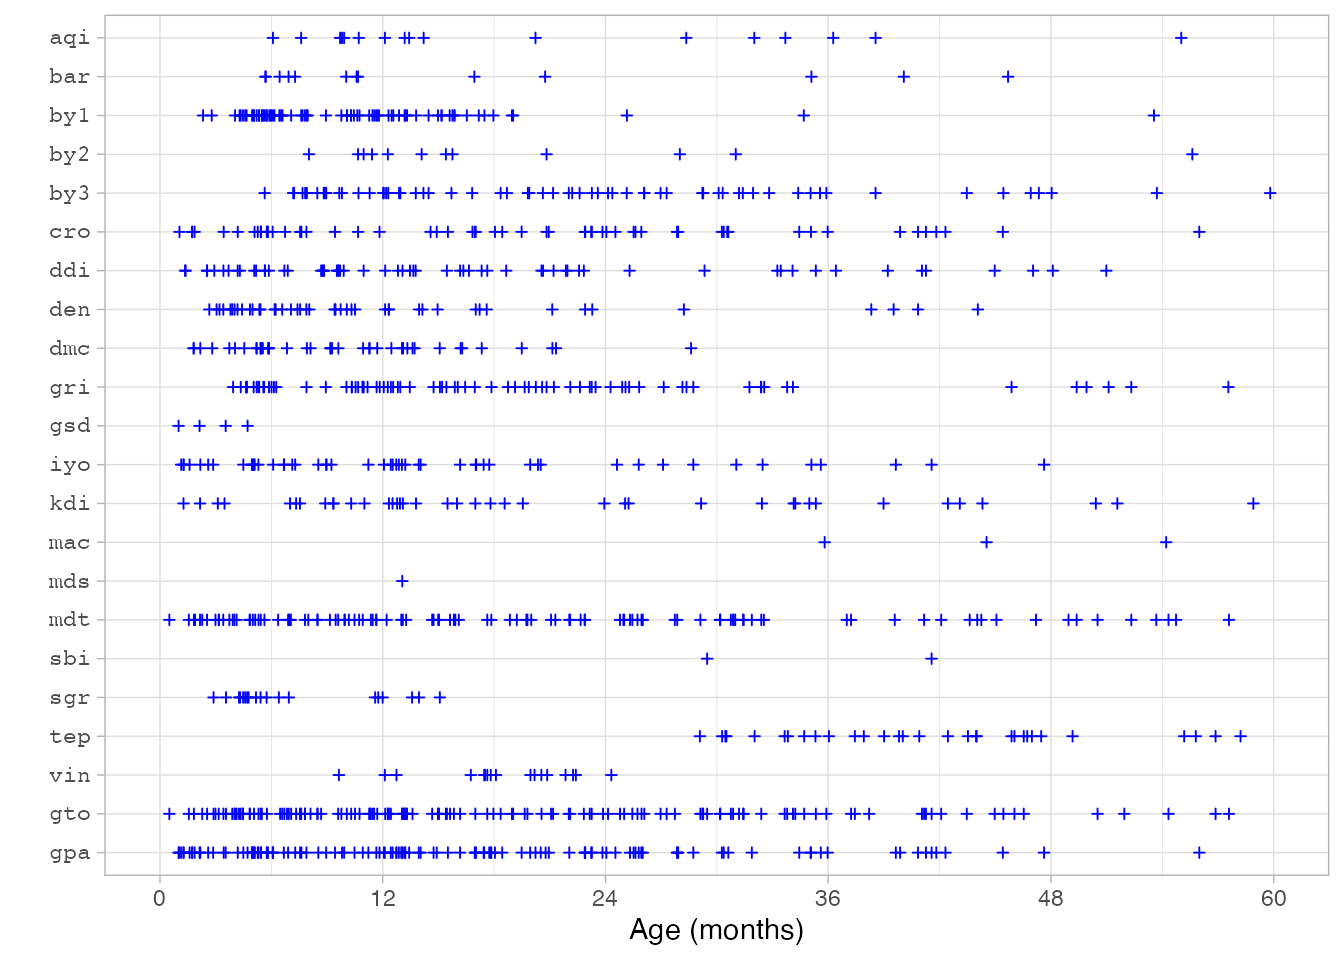
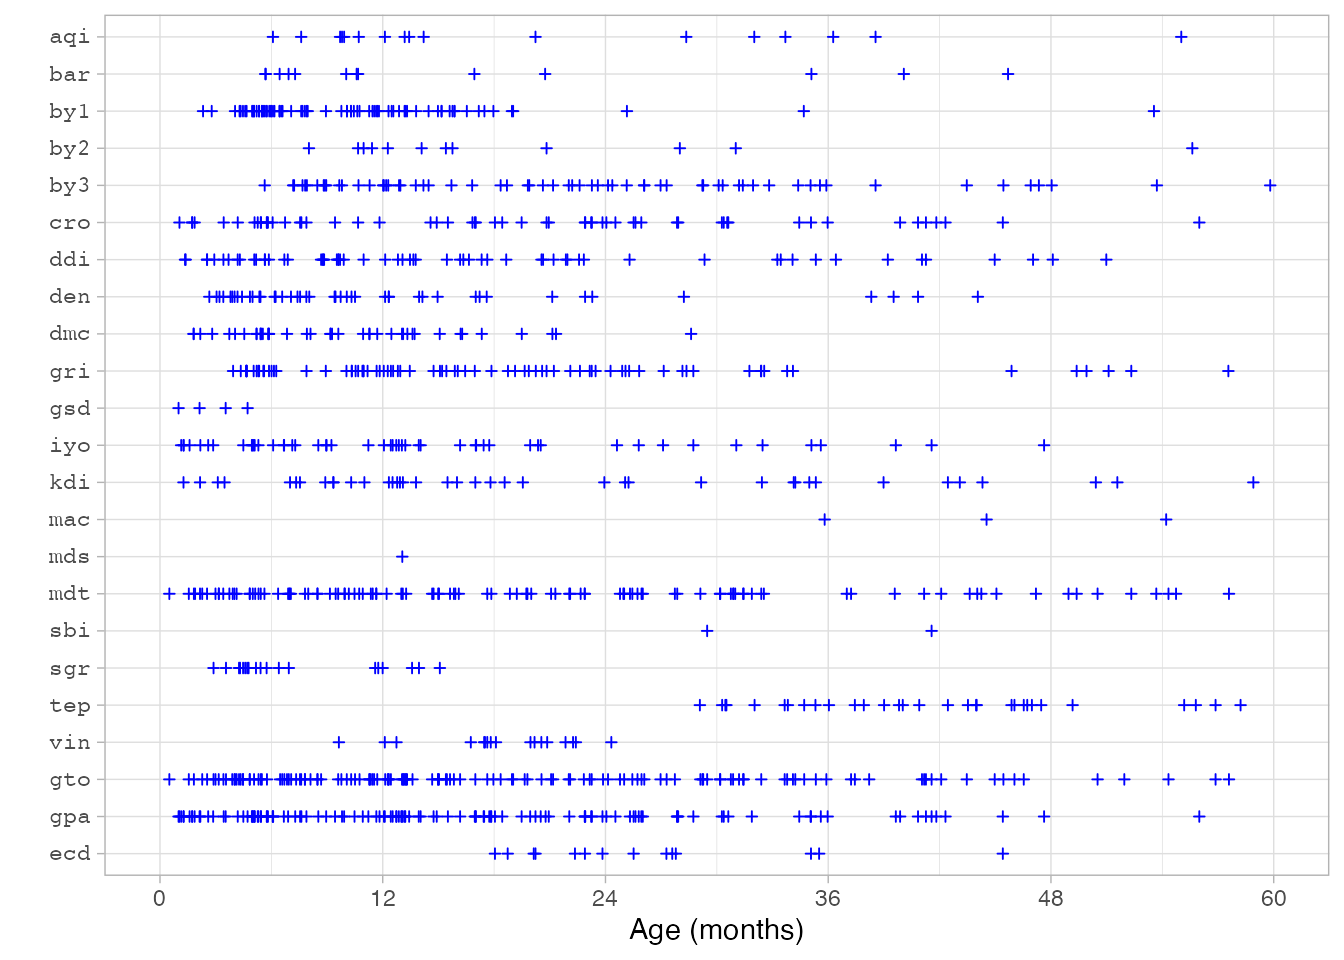
Update docs

diff --git a/docs/index.html b/docs/index.html
@@ -43,7 +43,7 @@
       </button>
       <span class="navbar-brand">
         <a class="navbar-link" href="index.html">dscore</a>
-        <span class="version label label-default" data-toggle="tooltip" data-placement="bottom" title="">1.6.0</span>
+        <span class="version label label-default" data-toggle="tooltip" data-placement="bottom" title="">1.6.1</span>
       </span>
     </div>
 
@@ -228,7 +228,7 @@ Weber, A. M., M. Rubio-Codina, S. P. Walker, S. van Buuren, I. Eekhout, S. Grant
 <li><a href="https://www.tidyverse.org/lifecycle/#maturing" class="external-link"><img src="https://img.shields.io/badge/lifecycle-maturing-blue.svg" alt="Lifecycle: maturing"></a></li>
 <li><a href="https://CRAN.R-project.org/package=dscore" class="external-link"><img src="https://www.r-pkg.org/badges/version/dscore" alt="CRAN status"></a></li>
 <li><a href="https://cran.r-project.org/package=dscore" class="external-link"><img src="http://cranlogs.r-pkg.org/badges/dscore"></a></li>
-<li><a href="https://github.com/d-score/dscore" class="external-link"><img src="https://img.shields.io/badge/github%20version-1.6.0-orange.svg"></a></li>
+<li><a href="https://github.com/d-score/dscore" class="external-link"><img src="https://img.shields.io/badge/github%20version-1.6.1-orange.svg"></a></li>
 </ul>
 </div>
 

diff --git a/docs/news/index.html b/docs/news/index.html
@@ -17,7 +17,7 @@
       </button>
       <span class="navbar-brand">
         <a class="navbar-link" href="../index.html">dscore</a>
-        <span class="version label label-default" data-toggle="tooltip" data-placement="bottom" title="">1.6.0</span>
+        <span class="version label label-default" data-toggle="tooltip" data-placement="bottom" title="">1.6.1</span>
       </span>
     </div>
 
@@ -57,6 +57,10 @@
       <small>Source: <a href="https://github.com/d-score/dscore/blob/HEAD/NEWS.md" class="external-link"><code>NEWS.md</code></a></small>
     </div>
 
+    <div class="section level2">
+<h2 class="page-header" data-toc-text="1.6.1" id="dscore-161">dscore 1.6.1<a class="anchor" aria-label="anchor" href="#dscore-161"></a></h2>
+<ul><li>Extends <code>gsed2208</code> with 18 ECDI items using Phase 1 data</li>
+</ul></div>
     <div class="section level2">
 <h2 class="page-header" data-toc-text="1.6.0" id="dscore-160">dscore 1.6.0<a class="anchor" aria-label="anchor" href="#dscore-160"></a></h2>
 <div class="section level4">

diff --git a/docs/reference/builtin_itembank.html b/docs/reference/builtin_itembank.html
@@ -20,7 +20,7 @@ defined items."><!-- mathjax --><script src="https://cdnjs.cloudflare.com/ajax/l
       </button>
       <span class="navbar-brand">
         <a class="navbar-link" href="../index.html">dscore</a>
-        <span class="version label label-default" data-toggle="tooltip" data-placement="bottom" title="">1.6.0</span>
+        <span class="version label label-default" data-toggle="tooltip" data-placement="bottom" title="">1.6.1</span>
       </span>
     </div>
 

diff --git a/docs/reference/builtin_itemtable.html b/docs/reference/builtin_itemtable.html
@@ -19,7 +19,7 @@ data."><!-- mathjax --><script src="https://cdnjs.cloudflare.com/ajax/libs/mathj
       </button>
       <span class="navbar-brand">
         <a class="navbar-link" href="../index.html">dscore</a>
-        <span class="version label label-default" data-toggle="tooltip" data-placement="bottom" title="">1.6.0</span>
+        <span class="version label label-default" data-toggle="tooltip" data-placement="bottom" title="">1.6.1</span>
       </span>
     </div>
 

diff --git a/docs/reference/builtin_references.html b/docs/reference/builtin_references.html
@@ -23,7 +23,7 @@ known as DAZ."><!-- mathjax --><script src="https://cdnjs.cloudflare.com/ajax/li
       </button>
       <span class="navbar-brand">
         <a class="navbar-link" href="../index.html">dscore</a>
-        <span class="version label label-default" data-toggle="tooltip" data-placement="bottom" title="">1.6.0</span>
+        <span class="version label label-default" data-toggle="tooltip" data-placement="bottom" title="">1.6.1</span>
       </span>
     </div>
 

diff --git a/docs/reference/calculate_posterior.html b/docs/reference/calculate_posterior.html
@@ -18,7 +18,7 @@ dynamic EAP, the procedure ignores the score of item j."><!-- mathjax --><script
       </button>
       <span class="navbar-brand">
         <a class="navbar-link" href="../index.html">dscore</a>
-        <span class="version label label-default" data-toggle="tooltip" data-placement="bottom" title="">1.6.0</span>
+        <span class="version label label-default" data-toggle="tooltip" data-placement="bottom" title="">1.6.1</span>
       </span>
     </div>
 

diff --git a/docs/reference/count_mu_dutch.html b/docs/reference/count_mu_dutch.html
@@ -19,7 +19,7 @@ be called when the key = "dutch".'><!-- mathjax --><script src="https://cdnjs.cl
       </button>
       <span class="navbar-brand">
         <a class="navbar-link" href="../index.html">dscore</a>
-        <span class="version label label-default" data-toggle="tooltip" data-placement="bottom" title="">1.6.0</span>
+        <span class="version label label-default" data-toggle="tooltip" data-placement="bottom" title="">1.6.1</span>
       </span>
     </div>
 

diff --git a/docs/reference/count_mu_gcdg.html b/docs/reference/count_mu_gcdg.html
@@ -19,7 +19,7 @@ be called when the key = "gsed" or key = "gcdg".'><!-- mathjax --><script src="h
       </button>
       <span class="navbar-brand">
         <a class="navbar-link" href="../index.html">dscore</a>
-        <span class="version label label-default" data-toggle="tooltip" data-placement="bottom" title="">1.6.0</span>
+        <span class="version label label-default" data-toggle="tooltip" data-placement="bottom" title="">1.6.1</span>
       </span>
     </div>
 

diff --git a/docs/reference/count_mu_phase1.html b/docs/reference/count_mu_phase1.html
@@ -18,7 +18,7 @@ based on LF &amp;amp; SF in GSED-BGD, GSED-PAK, GSED-TZA."><!-- mathjax --><scri
       </button>
       <span class="navbar-brand">
         <a class="navbar-link" href="../index.html">dscore</a>
-        <span class="version label label-default" data-toggle="tooltip" data-placement="bottom" title="">1.6.0</span>
+        <span class="version label label-default" data-toggle="tooltip" data-placement="bottom" title="">1.6.1</span>
       </span>
     </div>
 

diff --git a/docs/reference/daz.html b/docs/reference/daz.html
@@ -22,7 +22,7 @@ the Z-score, it finds the raw D-score."><!-- mathjax --><script src="https://cdn
       </button>
       <span class="navbar-brand">
         <a class="navbar-link" href="../index.html">dscore</a>
-        <span class="version label label-default" data-toggle="tooltip" data-placement="bottom" title="">1.6.0</span>
+        <span class="version label label-default" data-toggle="tooltip" data-placement="bottom" title="">1.6.1</span>
       </span>
     </div>
 

diff --git a/docs/reference/decompose_itemnames.html b/docs/reference/decompose_itemnames.html
@@ -18,7 +18,7 @@ instrument, domain, mode and number"><!-- mathjax --><script src="https://cdnjs.
       </button>
       <span class="navbar-brand">
         <a class="navbar-link" href="../index.html">dscore</a>
-        <span class="version label label-default" data-toggle="tooltip" data-placement="bottom" title="">1.6.0</span>
+        <span class="version label label-default" data-toggle="tooltip" data-placement="bottom" title="">1.6.1</span>
       </span>
     </div>
 

diff --git a/docs/reference/dscore-package.html b/docs/reference/dscore-package.html
@@ -19,7 +19,7 @@ generic development in children."><!-- mathjax --><script src="https://cdnjs.clo
       </button>
       <span class="navbar-brand">
         <a class="navbar-link" href="../index.html">dscore</a>
-        <span class="version label label-default" data-toggle="tooltip" data-placement="bottom" title="">1.6.0</span>
+        <span class="version label label-default" data-toggle="tooltip" data-placement="bottom" title="">1.6.1</span>
       </span>
     </div>
 
